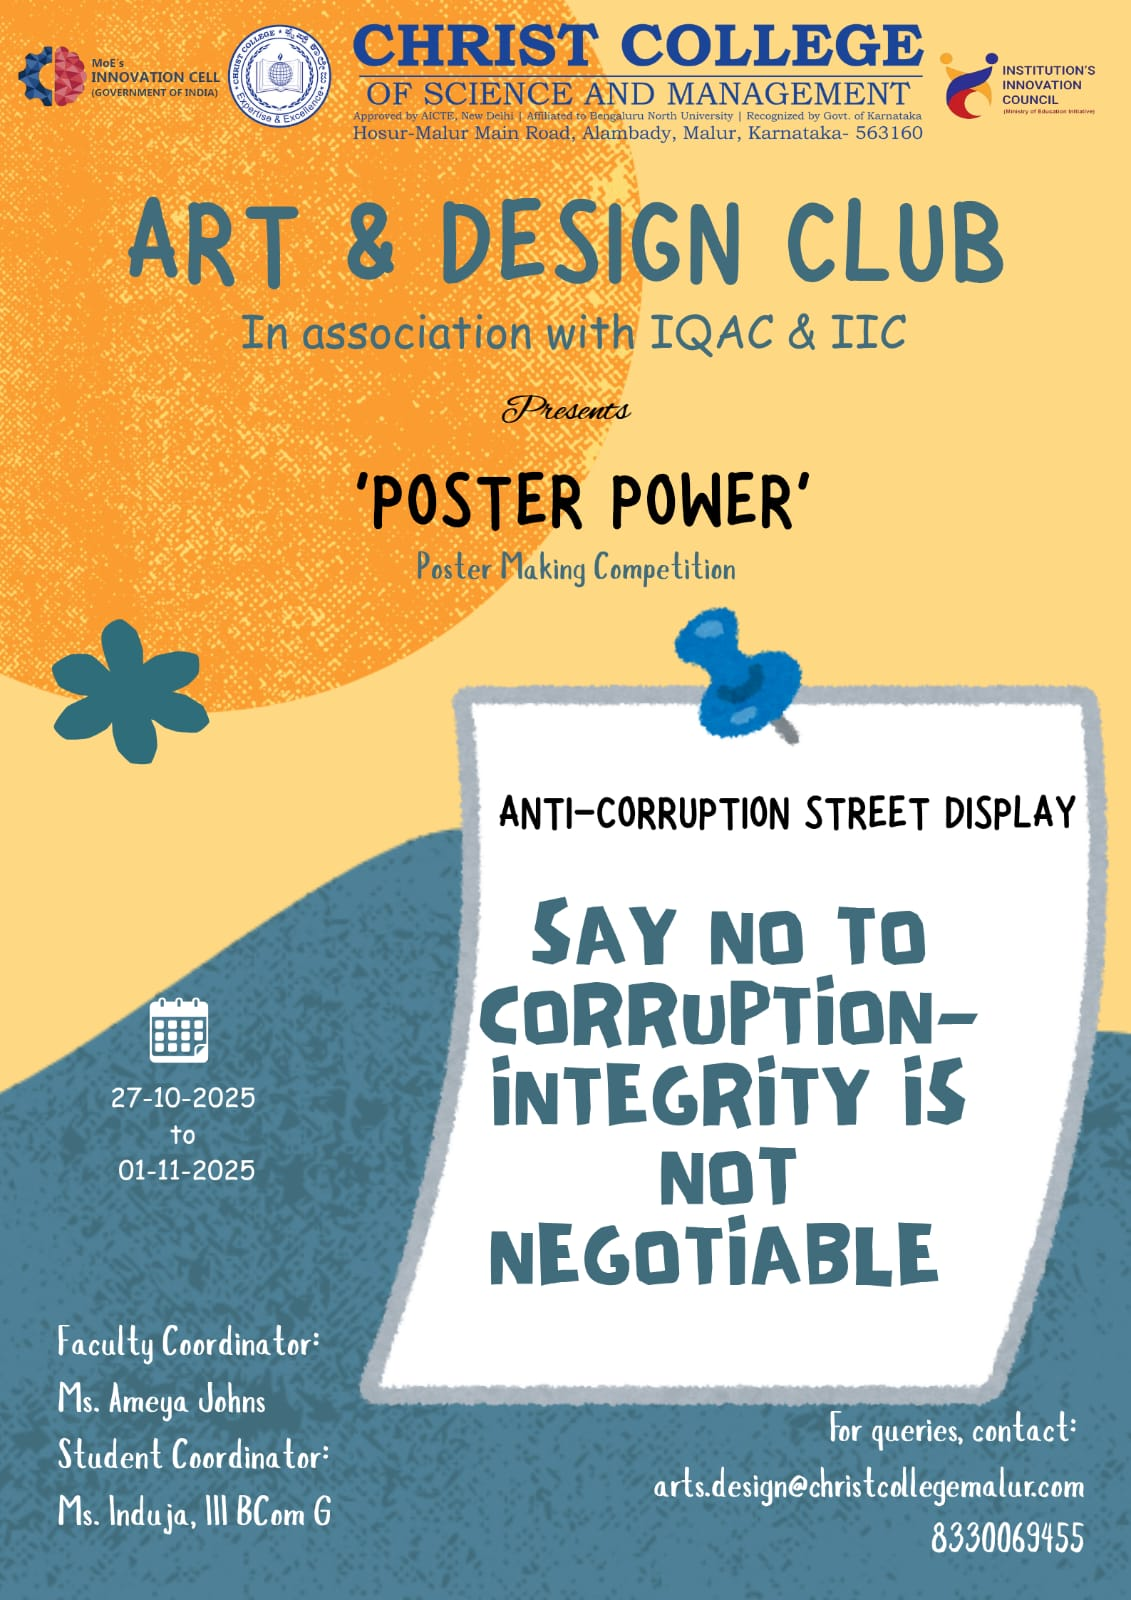
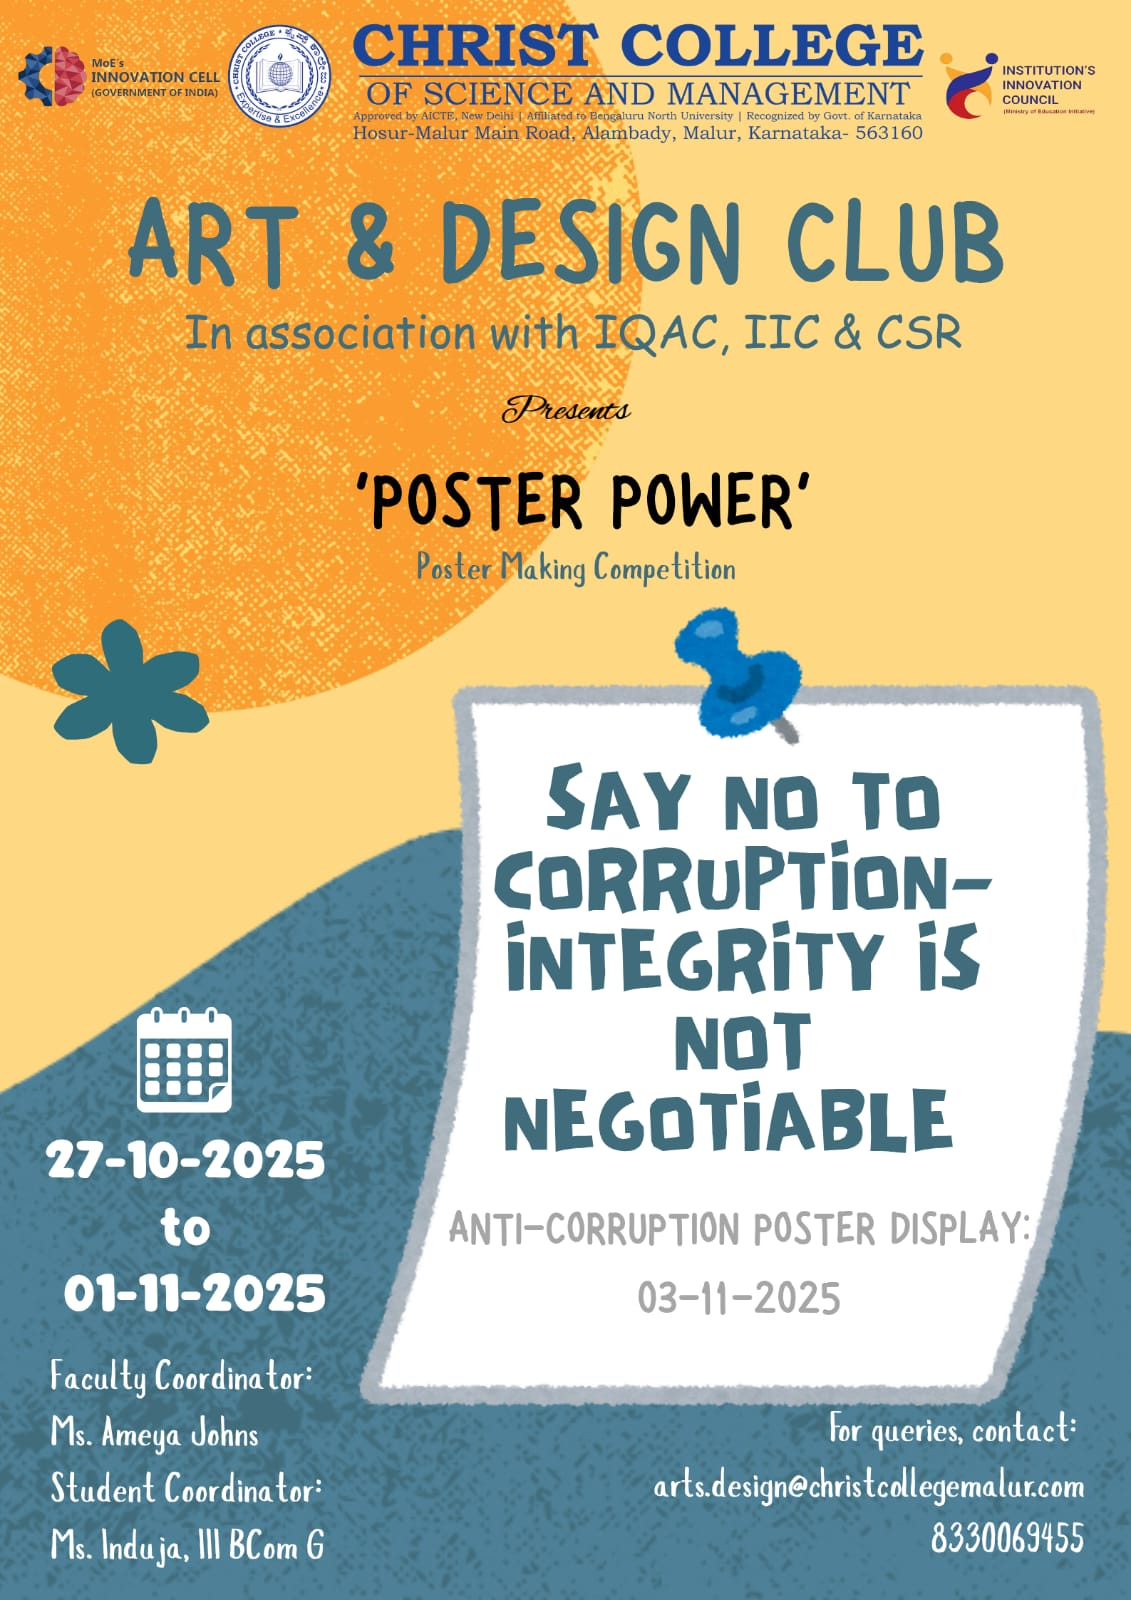
Add files via upload

Changed region(s): [[0.4023, 0.4688, 0.9593, 0.8438], [0.0309, 0.625, 0.3095, 1.0], [0.1547, 0.1875, 0.8665, 0.2188]]

diff --git a/About.html b/About.html
@@ -21,7 +21,7 @@
     <div class="container">
         <h1>POSTER POWER</h1>
         <p>
-            In alignment with the observance of Vigilance Awareness Week, the Art & Design club proposes a creative awareness initiative titled “Poster Power – Anti-Corruption Street Display.” 
+            In alignment with the observance of Vigilance Awareness Week, the Art & Design club proposes a creative awareness initiative titled “Poster Power – Anti-Corruption Poster Display.” 
         </p>
         <p>
             This competition aims to promote integrity and ethical values among students through visual expression and artistic creativity.Certificates of merit will be given to the top two posters.
